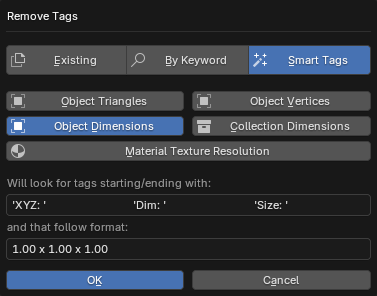
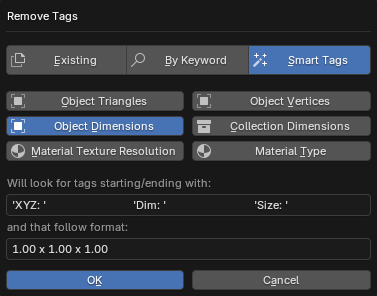
1.0.2

Changed region(s): [[0.0875, 0.4561, 0.8753, 0.5473]]

diff --git a/docs/utilities.md b/docs/utilities.md
@@ -32,8 +32,12 @@ This utility enables you to batch modify attributes across multiple materials. I
     - **Materials marked as Assets**
     - **Materials NOT marked as Assets**
     - **Materials on Selected Objects**
-- **Filter**: Enter keywords to filter materials by their names. When you type in this field, the  `Exclude` and `Include only` buttons will appear. Use `Exclude` to skip materials with matching names, or `Include only` to process only those materials whose names contain the specified keywords.
-- **Only materials imported by BatchGenie**: When enabled, this option ensures that the batch operation only affect materials imported by BatchGenie. Disabling it applies changes to all materials in your file, regardless of their origin.
+
+![Utilities Material Filter](images/utility_filter_materials.png){ .img-box align=left style='margin-right:calc(1em + 10px)' }
+
+- **Filter**: Helps you to refine the selection made with the 'Selection'.
+    - **Keywords**: Enter keywords to filter materials by their names. Separate multiple keywords with spaces. Case-insensitive. When you type in this field, the  `Exclude` and `Include only` buttons will appear. Use `Exclude` to skip materials containing any of the specified keywords in their names, or `Include only` to process only those materials whose names contain any of the specified keywords.
+    - **Only materials imported by BatchGenie**: When enabled, this option ensures that the batch operation only affect materials imported by BatchGenie. Disabling it applies changes to all materials in your file, regardless of their origin.
 
 - **Target**: Specify which node inside the material to target. Refer to the options listed below for details:
 
@@ -124,8 +128,12 @@ This utility enables you to batch modify material settings across materials.
     - **Materials marked as Assets**
     - **Materials NOT marked as Assets**
     - **Materials on Selected Objects**
-- **Filter**: Enter keywords to filter materials by their names. When you type in this field, the  `Exclude` and `Include only` buttons will appear. Use `Exclude` to skip materials with matching names, or `Include only` to process only those materials whose names contain the specified keywords.
-- **Only materials imported by BatchGenie**: When enabled, this option ensures that the batch operation only affect materials imported by BatchGenie. Disabling it applies changes to all materials in your file, regardless of their origin.
+
+![Utilities Material Filter](images/utility_filter_materials.png){ .img-box align=left style='margin-right:calc(1em + 10px)' }
+
+- **Filter**: Helps you to refine the selection made with the 'Selection'.
+    - **Keywords**: Enter keywords to filter materials by their names. Separate multiple keywords with spaces. Case-insensitive. When you type in this field, the  `Exclude` and `Include only` buttons will appear. Use `Exclude` to skip materials containing any of the specified keywords in their names, or `Include only` to process only those materials whose names contain any of the specified keywords.
+    - **Only materials imported by BatchGenie**: When enabled, this option ensures that the batch operation only affect materials imported by BatchGenie. Disabling it applies changes to all materials in your file, regardless of their origin.
 - **Setting**:
     - **Displacement Type**
     - **Eevee Backface Culling**
@@ -158,12 +166,14 @@ This utility lets you replace existing 'Shader Editor' nodes with custom Node-Gr
     - **Materials marked as Assets**
     - **Materials NOT marked as Assets**
     - **Materials on Selected Objects**
-- **Filter**: Enter keywords to filter materials by their names. When you type in this field, the  `Exclude` and `Include only` buttons will appear. Use `Exclude` to skip materials with matching names, or `Include only` to process only those materials whose names contain the specified keywords.
-- **Only materials imported by BatchGenie**: When enabled, this option ensures that the batch operation only affect materials imported by BatchGenie. Disabling it applies changes to all materials in your file, regardless of their origin.
 
+<div style="clear:both"></div>
 
+![Utilities Material Filter](images/utility_filter_materials.png){ .img-box align=left style='margin-right:calc(1em + 10px)' }
 
-
+- **Filter**: Helps you to refine the selection made with the 'Selection'.
+    - **Keywords**: Enter keywords to filter materials by their names. Separate multiple keywords with spaces. Case-insensitive. When you type in this field, the  `Exclude` and `Include only` buttons will appear. Use `Exclude` to skip materials containing any of the specified keywords in their names, or `Include only` to process only those materials whose names contain any of the specified keywords.
+    - **Only materials imported by BatchGenie**: When enabled, this option ensures that the batch operation only affect materials imported by BatchGenie. Disabling it applies changes to all materials in your file, regardless of their origin.
 
 <div style="clear:both"></div>
 
@@ -466,6 +476,12 @@ This feature works with both internal and external Assets, so you don't have to 
     ![Tag - Material Texture Resolution](images/utility_asset_browser_tag_material_texture_resolution.png){ .img-box align=left }
 
     Tags material Assets with the texture resolution, like 2K, 4K, or 8K, by identifying the albedo texture within the material and checking its resolution.
+
+=== "Material Type"
+    ![Tag - Material Type](images/utility_asset_browser_tag_material_type.gif){ .img-box align=left }
+
+    Tags material Assets with its type: "Texture-based" or "Procedural", with an option to include node counts for both types.
+
 
 !!! tip "Tip"
     Smart Tags will overwrite previously existing Smart Tags of the same type. For example, if you have added the Object Dimensions tag and then edited the object, you can reapply the tag to update it.

diff --git a/docs/changelog.md b/docs/changelog.md
@@ -9,14 +9,35 @@ Here, you can find a list of all updates, enhancements, and bug fixes made to Ba
 
 ### Versions
 
+
+#### 1.0.2
+
+  > Date: 2024.09.27
+
+- **New functionality**:
+    - Utility `Add Asset Tag`: New Smart Tag: 'Material Type'. Tags the material with its type: "Texture-based" or "Procedural", with an option to include node counts for both types. Example: "Procedural (56 nodes)".
+    - `Render Asset Previews`:  'Add Incremental Filename Suffix' option: When saving asset previews externally (outside of the blend file), this feature automatically appends an incrementing number to the end of filenames, ensuring each version is saved without overwriting previous files. This allows you to quickly iterate renders with various settings. For example, if your object is named "Suzanne", rendered images will be saved as "Suzanne [1]", "Suzanne [2]", etc.
+
+- **UI**:
+    - Improved UI & tooltips for the previously added 'Filtering' functions for some utilities.
+    - Improved the layout & content of the 'info' popup that is available in many places.
+    - Added info button to the 'render settings' that displays useful information.
+
+- **Bugfix**:
+    - Utility `Replace Shader Nodes`: The option 'Only materials imported by BatchGenie' did not work this utility but is now fixed.
+
+---
+
 #### 1.0.1
 
   > Date: 2024.09.25
 
+- **New functionality**:
+    - Utilities: `Change Node Attributes`, `Change Material Settings`, & `Replace Shader Nodes`: New keyword filtering function to filter materials by their names to include or exclude them from the batch process.
+
 - **Improved functionality**:
-    - Utilities: `Change Node Attributes`, `Change Material Settings`, & `Replace Shader Nodes`:
-        - 'Selection' dropdown has new options: 'Materials marked as Assets' & 'Materials NOT marked as Assets' to help target specific materials.
-        - New keyword filtering function to filter materials by their names to include or exclude them from the batch process.
+    - Utilities: `Change Node Attributes`, `Change Material Settings`, & `Replace Shader Nodes`: 'Selection' dropdown has new options: 'Materials marked as Assets' & 'Materials NOT marked as Assets' to help target specific materials.
+
     - Utility: `Batch Rename`: the 'Set Mesh names same as Object names' setting now has a 'Selection' dropdown, which helps you target specific objects such as selected objects, etc., and not just all objects in your file.
 
 - **UI**:
@@ -24,6 +45,8 @@ Here, you can find a list of all updates, enhancements, and bug fixes made to Ba
     - A few typos fixed.
 
 - **Misc**: 'Only materials imported by BatchGenie' setting is no longer on by default.
+
+---
 
 #### 1.0.0
 

diff --git a/docs/render_asset_previews.md b/docs/render_asset_previews.md
@@ -208,6 +208,10 @@ Here, you'll find settings for the render engine, aspect ratio, resolution, and 
     - **Save in Asset & Save Externally**: to save both within the file and as separate external files.
     - **Save Only External**: to save images only as external files.
 
+
+- **Add Incremental Filename Suffix**: When saving asset previews externally, this feature automatically appends an incrementing number to the end of filenames, ensuring each version is saved without overwriting previous files. This allows you to quickly iterate renders with various settings. For example, if your object is named "Suzanne", the rendered images will be saved as "Suzanne [1]", "Suzanne [2]", and so on.
+
+
 !!! info2 "More render settings"
     These render settings are copied from your current scene, and you can edit them by going to the `Render` tab in the Properties panel to make your desired changes.
 
